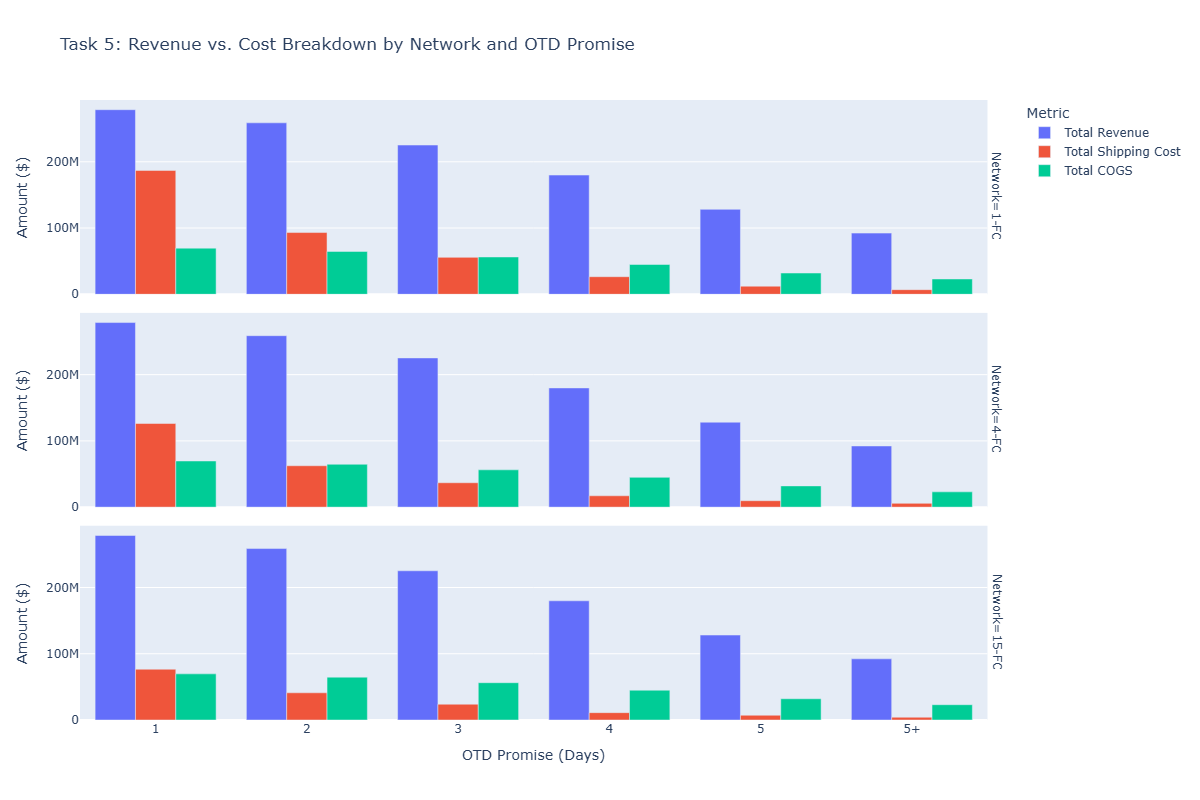
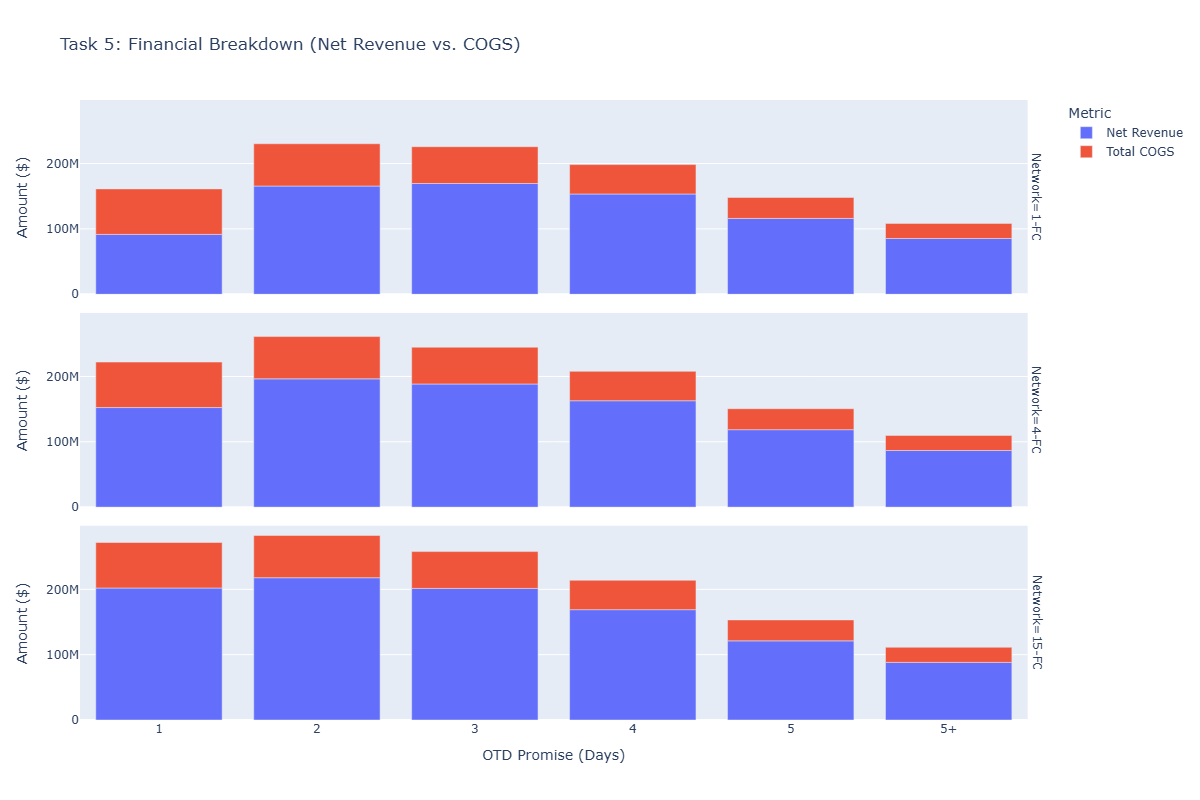
task5 final committing

diff --git a/CW1/src/task5.py b/CW1/src/task5.py
@@ -1,11 +1,12 @@
 # ==============================================================================
 # ISYE 6202, Casework 1, Fall 2025
-# Task 5 Solution Script - Final Corrected Version
+# Task 5 Solution Script - Final Definitive Version
 #
 # Description:
-# This script calculates the financial performance for Dobda's three potential
-# fulfillment networks under various Order-to-Delivery (OTD) promise scenarios.
-# It is corrected based on the specific column names in the provided CSV files.
+# This script performs the complete financial analysis for Task 5. It calculates
+# Total Revenue, Total Shipping Cost, Net Revenue, Total COGS, and Gross
+# Operating Profit for three network scenarios across all OTD promises,
+# and generates all required outputs.
 # ==============================================================================
 
 # --- 1. SETUP AND CONFIGURATION ---
@@ -16,13 +17,10 @@ import plotly.express as px
 from pathlib import Path
 
 # --- Configuration ---
-# Set up the absolute directories for inputs and outputs.
 BASE_DIR = Path(r"D:\Adarsh GATech Files\6335 Benoit SC1\CW1\ISyE6202_CW1\CW1")
 DATA_DIR = BASE_DIR / "data"
 TASK3_OUTPUT_DIR = BASE_DIR / "output" / "task3"
 OUTPUT_DIR = BASE_DIR / "output" / "task5"
-
-# Create the output directory if it doesn't already exist.
 OUTPUT_DIR.mkdir(parents=True, exist_ok=True)
 
 # --- Financial Constants from the Casework ---
@@ -34,11 +32,6 @@ def load_data():
     Loads all necessary input CSV files and corrects the market_type data.
     """
     print("Loading input data...")
-    
-    # Define directories
-    TASK3_OUTPUT_DIR = BASE_DIR / "output" / "task3"
-    
-    # Define paths to all the input files
     paths = {
         "seasonalities": DATA_DIR / "demand_seasonalities.csv",
         "zip3_pmf": DATA_DIR / "zip3_pmf.csv",
@@ -47,8 +40,6 @@ def load_data():
         "assign_4fc": TASK3_OUTPUT_DIR / "assignment_4FC.csv",
         "assign_15fc": TASK3_OUTPUT_DIR / "assignment_15FC.csv",
     }
-    
-    # Load files into a dictionary of pandas DataFrames
     data = {}
     for name, path in paths.items():
         try:
@@ -57,27 +48,17 @@ def load_data():
             print(f"--- ERROR: Input file not found at {path} ---")
             exit()
             
-    # --- DATA CORRECTION STEP (CRITICAL FIX) ---
-    # 1. Prepare the CORRECT market type data from 'zip3_market.csv'.
     correct_markets = data['zip3_market']
     correct_markets.columns = [c.strip().lower() for c in correct_markets.columns]
-    
-    # Use the correct standardized column name ('market') and then rename it.
     correct_markets['zip3'] = correct_markets['zip3'].astype(str).str.zfill(3)
     correct_markets['market'] = correct_markets['market'].str.title()
     correct_markets.rename(columns={'market': 'market_type'}, inplace=True)
     
-    # 2. Correct the assignment files.
     for key in ["assign_1fc", "assign_4fc", "assign_15fc"]:
-        # --- FIX ADDED HERE: Ensure 'zip3' is a string before merging ---
         data[key]['zip3'] = data[key]['zip3'].astype(str).str.zfill(3)
-
-        # Drop the incorrect 'market_type' column if it exists.
         if 'market_type' in data[key].columns:
             data[key] = data[key].drop(columns=['market_type'])
-        # Merge with the correct market data to add the proper 'market_type' column.
         data[key] = pd.merge(data[key], correct_markets[['zip3', 'market_type']], on='zip3', how='left')
-
     print("Data loaded and corrected successfully.")
     return data
 
@@ -86,91 +67,63 @@ def prepare_demand_data(df_seasonalities, df_zip3_pmf):
     Calculates the master demand DataFrame (demand per ZIP, per day).
     """
     print("Preparing daily demand data by ZIP code...")
-
-    # Parameters from the casework
-    total_units_overall = 2_000_000
-    overall_market_grow = 0.075
-    current_market_share = 0.036
-    median_market_share_grow_yearly = 0.20
-    N_DAYS = 364
-
-    # Calculate total expected Dobda units for the year
-    total_dobda_units_yearly = (total_units_overall * (1 + overall_market_grow)) * \
-                               (current_market_share * (1 + median_market_share_grow_yearly))
-
-    # Standardize seasonality column names and data
+    total_units_overall = 2_000_000; overall_market_grow = 0.075; current_market_share = 0.036; median_market_share_grow_yearly = 0.20; N_DAYS = 364
+    total_dobda_units_yearly = (total_units_overall * (1 + overall_market_grow)) * (current_market_share * (1 + median_market_share_grow_yearly))
     df_seasonalities.columns = [c.strip().lower().replace(' ', '_') for c in df_seasonalities.columns]
-    df_season_week = df_seasonalities[["week_of_year", "proportion"]].copy()
-    df_day_week = df_seasonalities[["day_of_week", "proportion.1"]].iloc[:7].copy()
+    df_season_week = df_seasonalities[["week_of_year", "proportion"]].copy(); df_day_week = df_seasonalities[["day_of_week", "proportion.1"]].iloc[:7].copy()
     df_season_week.loc[:, 'proportion'] = df_season_week['proportion'].str.replace('%', '').astype(float) / 100
     df_day_week.loc[:, 'proportion.1'] = df_day_week['proportion.1'].str.replace('%', '').astype(float) / 100
-
-    # Create a daily calendar and apply seasonal factors
     dates = pd.to_datetime(pd.to_timedelta(np.arange(N_DAYS), unit='D') + pd.Timestamp('2026-01-01'))
-    df_calendar = pd.DataFrame({'date': dates})
-    df_calendar['week_of_year'] = df_calendar['date'].dt.isocalendar().week
-    df_calendar['day_of_week'] = df_calendar['date'].dt.isocalendar().day
-    df_calendar = pd.merge(df_calendar, df_season_week, on='week_of_year', how='left')
-    df_calendar = pd.merge(df_calendar, df_day_week.rename(columns={'proportion.1': 'day_proportion'}), on='day_of_week', how='left')
-    df_calendar['pmf_daily'] = (df_calendar['proportion'] * df_calendar['day_proportion']).fillna(0)
-    df_calendar['pmf_daily'] /= df_calendar['pmf_daily'].sum()
+    df_calendar = pd.DataFrame({'date': dates}); df_calendar['week_of_year'] = df_calendar['date'].dt.isocalendar().week; df_calendar['day_of_week'] = df_calendar['date'].dt.isocalendar().day
+    df_calendar = pd.merge(df_calendar, df_season_week, on='week_of_year', how='left'); df_calendar = pd.merge(df_calendar, df_day_week.rename(columns={'proportion.1': 'day_proportion'}), on='day_of_week', how='left')
+    df_calendar['pmf_daily'] = (df_calendar['proportion'] * df_calendar['day_proportion']).fillna(0); df_calendar['pmf_daily'] /= df_calendar['pmf_daily'].sum()
     df_calendar['total_us_demand'] = total_dobda_units_yearly * df_calendar['pmf_daily']
-
-    # Prepare geographic demand data
-    df_zip3_pmf.columns = [c.strip().lower() for c in df_zip3_pmf.columns]
-    df_zip3_pmf['zip3'] = df_zip3_pmf['zip3'].astype(str).str.zfill(3)
+    df_zip3_pmf.columns = [c.strip().lower() for c in df_zip3_pmf.columns]; df_zip3_pmf['zip3'] = df_zip3_pmf['zip3'].astype(str).str.zfill(3)
     df_zip3_pmf['pmf'] /= df_zip3_pmf['pmf'].sum()
-
-    # Create the master demand DataFrame
     df_demand = pd.merge(df_calendar[['date', 'total_us_demand']], df_zip3_pmf, how='cross')
     df_demand['demand_units'] = df_demand['total_us_demand'] * df_demand['pmf']
-    
     print("Demand data preparation complete.")
     return df_demand[['date', 'zip3', 'demand_units']]
 
 def calculate_financials_for_scenario(df_demand, df_assignment, network_name, df_conversion, df_shipping):
     """
-    Calculates financials for a given network across all OTD options.
+    Calculates all required financial metrics for a given network across all OTD options.
     """
     print(f"Calculating financials for {network_name} network...")
-    
-    df_assignment['zip3'] = df_assignment['zip3'].astype(str).str.zfill(3)
     df_full = pd.merge(df_demand, df_assignment, on='zip3')
-    
     results = []
     
     for otd in range(1, 7):
         df_scenario = df_full.copy()
         
         # Merge conversion rates and shipping costs
-        df_scenario = pd.merge(df_scenario, df_conversion[df_conversion['otd_promise'] == otd],
-                               left_on='market_type', right_on='Market')
-        df_scenario = pd.merge(df_scenario, df_shipping[df_shipping['otd_promise'] == otd],
-                               on='distance_bucket')
+        df_scenario = pd.merge(df_scenario, df_conversion[df_conversion['otd_promise'] == otd], left_on='market_type', right_on='Market')
+        df_scenario = pd.merge(df_scenario, df_shipping[df_shipping['otd_promise'] == otd], on='distance_bucket')
         
-        # Calculate financial metrics
+        # Calculate all financial metrics as requested in the prompt
         df_scenario['converted_demand'] = df_scenario['demand_units'] * df_scenario['conversion_rate']
         df_scenario['total_revenue'] = df_scenario['converted_demand'] * PRICE_PER_UNIT
         df_scenario['total_shipping_cost'] = df_scenario['converted_demand'] * df_scenario['shipping_cost_per_unit']
+        df_scenario['net_revenue'] = df_scenario['total_revenue'] - df_scenario['total_shipping_cost']
         df_scenario['total_cogs'] = df_scenario['converted_demand'] * COGS_PER_UNIT
-        df_scenario['gross_operating_profit'] = (df_scenario['total_revenue'] - 
-                                                 df_scenario['total_shipping_cost'] - 
-                                                 df_scenario['total_cogs'])
+        df_scenario['gross_operating_profit'] = df_scenario['net_revenue'] - df_scenario['total_cogs']
         
-        # Aggregate the results for the year
+        # Aggregate the results for the year and store them
         results.append({
             'Network': network_name,
             'OTD Promise (Days)': str(otd) if otd < 6 else '5+',
-            'Gross Operating Profit': df_scenario['gross_operating_profit'].sum(),
             'Total Revenue': df_scenario['total_revenue'].sum(),
-            'Total Shipping Cost': df_scenario['total_shipping_cost'].sum()
+            'Total Shipping Cost': df_scenario['total_shipping_cost'].sum(),
+            'Net Revenue': df_scenario['net_revenue'].sum(),
+            'Total COGS': df_scenario['total_cogs'].sum(),
+            'Gross Operating Profit': df_scenario['gross_operating_profit'].sum()
         })
         
     return pd.DataFrame(results)
 
 def main():
     """
-    Main function to execute the Task 5 analysis.
+    Main function to execute the complete Task 5 analysis.
     """
     data_files = load_data()
     df_demand = prepare_demand_data(data_files["seasonalities"], data_files["zip3_pmf"])
@@ -179,7 +132,6 @@ def main():
     data_conversion = {'Market': ['Primary','Secondary','Tertiary'],1:[1.00,1.00,1.00],2:[0.90,1.00,1.00],3:[0.75,0.95,1.00],4:[0.60,0.75,0.95],5:[0.40,0.60,0.80],'5+':[0.30,0.40,0.60]}
     df_conversion = pd.DataFrame(data_conversion).melt(id_vars='Market', var_name='otd_promise', value_name='conversion_rate')
     df_conversion['otd_promise'] = pd.to_numeric(df_conversion['otd_promise'].replace('5+', 6))
-
     data_shipping = {'distance_bucket':['<50','51-150','151-300','301-600','601-1000','1001-1400','1401-1800','>1800'],1:[607,759,1025,1445,2078,2692,2841,2912],2:[353,441,585,794,924,1427,1795,1854],3:[230,287,392,533,655,895,1202,1330],4:[121,173,238,316,343,491,776,894],5:[139,151,191,242,287,340,362,388],'5+':[103,128,160,198,225,259,276,301]}
     df_shipping = pd.DataFrame(data_shipping).melt(id_vars='distance_bucket', var_name='otd_promise', value_name='shipping_cost_per_unit')
     df_shipping['otd_promise'] = pd.to_numeric(df_shipping['otd_promise'].replace('5+', 6))
@@ -193,11 +145,12 @@ def main():
     all_results = [calculate_financials_for_scenario(df_demand, df, name, df_conversion, df_shipping) for df, name in scenarios]
     final_summary_df = pd.concat(all_results, ignore_index=True)
 
-    print("Analysis complete. Saving outputs...")
+    print("\nAnalysis complete. Saving primary outputs...")
     summary_csv_path = OUTPUT_DIR / "task5_financial_summary.csv"
     final_summary_df.to_csv(summary_csv_path, index=False)
-    print(f"-> Summary table saved to: {summary_csv_path}")
+    print(f"-> Main summary table saved to: {summary_csv_path}")
     
+    # --- Primary Visualization: Gross Operating Profit ---
     fig = px.bar(final_summary_df,
                  x='OTD Promise (Days)', y='Gross Operating Profit', color='Network',
                  barmode='group', title='Task 5: Gross Operating Profit by OTD Promise and Network',
@@ -207,88 +160,53 @@ def main():
     chart_png_path = OUTPUT_DIR / "task5_profit_by_otd_chart.png"
     try:
         fig.write_image(chart_png_path, width=1000, height=550)
-        print(f"-> Bar chart saved to: {chart_png_path}")
+        print(f"-> Main profit chart saved to: {chart_png_path}")
     except Exception:
         print("\n--- Could not save image file. Please install kaleido by running: pip install kaleido ---")
 
-    # --- Additional Visualization 1: Detailed Profit Breakdown ---
-    print("Generating detailed profit breakdown chart...")
+    # --- Additional Visualizations and Outputs ---
+    print("\nGenerating additional outputs...")
 
-    # Calculate Total COGS in our summary table
-    final_summary_df['Total COGS'] = (final_summary_df['Total Revenue'] - 
-                                      final_summary_df['Total Shipping Cost'] - 
-                                      final_summary_df['Gross Operating Profit'])
-
-    # Melt the DataFrame to prepare for a stacked bar chart
+    # Viz 1: Revenue vs. Costs Trade-off (Now including Net Revenue)
+    fig_tradeoff = px.line(
+        final_summary_df, x='OTD Promise (Days)', y=['Total Revenue', 'Total Shipping Cost', 'Net Revenue'],
+        facet_row='Network', title='Task 5: The Trade-Off Between Revenue, Costs, and Net Revenue',
+        labels={'value': 'Amount ($)', 'variable': 'Metric'}, markers=True
+    )
+    tradeoff_chart_path = OUTPUT_DIR / "task5_tradeoff_chart.png"
+    fig_tradeoff.write_image(tradeoff_chart_path, width=1000, height=800)
+    print(f"-> Trade-off chart saved to: {tradeoff_chart_path}")
+    
+    # Viz 2: Detailed Financial Breakdown
     df_melted = final_summary_df.melt(
         id_vars=['Network', 'OTD Promise (Days)'],
-        value_vars=['Total Revenue', 'Total Shipping Cost', 'Total COGS'],
-        var_name='Metric',
-        value_name='Amount'
+        value_vars=['Net Revenue', 'Total COGS'],
+        var_name='Metric', value_name='Amount'
     )
-
-    # Create the chart
     fig_breakdown = px.bar(
-        df_melted,
-        x='OTD Promise (Days)',
-        y='Amount',
-        color='Metric',
-        facet_row='Network', # Creates separate charts for 1-FC, 4-FC, 15-FC
-        barmode='group',
-        title='Task 5: Revenue vs. Cost Breakdown by Network and OTD Promise',
-        labels={'Amount': 'Amount ($)', 'OTD Promise (Days)': 'OTD Promise (Days)'},
-        category_orders={"OTD Promise (Days)": ["1", "2", "3", "4", "5", "5+"]}
+        df_melted, x='OTD Promise (Days)', y='Amount', color='Metric',
+        facet_row='Network', title='Task 5: Financial Breakdown (Net Revenue vs. COGS)',
+        labels={'Amount': 'Amount ($)'}, category_orders={"OTD Promise (Days)": ["1", "2", "3", "4", "5", "5+"]}
     )
-
-    # Save the plot
     breakdown_chart_path = OUTPUT_DIR / "task5_profit_breakdown_chart.png"
-    try:
-        fig_breakdown.write_image(breakdown_chart_path, width=1200, height=800)
-        print(f"-> Breakdown chart saved to: {breakdown_chart_path}")
-    except Exception as e:
-        print(f"--- Could not save breakdown chart. Error: {e} ---")
+    fig_breakdown.write_image(breakdown_chart_path, width=1200, height=800)
+    print(f"-> Financial breakdown chart saved to: {breakdown_chart_path}")
 
-    # --- Additional Visualization 2: Revenue vs. Shipping Cost Trade-off ---
-    print("Generating revenue vs. cost trade-off chart...")
-
-    fig_tradeoff = px.line(
-        final_summary_df,
-        x='OTD Promise (Days)',
-        y=['Total Revenue', 'Total Shipping Cost'],
-        facet_row='Network', # Creates separate charts for each network
-        title='Task 5: The Trade-Off Between Revenue and Shipping Cost',
-        labels={'value': 'Amount ($)', 'variable': 'Metric'},
-        markers=True # Adds dots to each data point
-    )
-
-    # Save the plot
-    tradeoff_chart_path = OUTPUT_DIR / "task5_tradeoff_chart.png"
-    try:
-        fig_tradeoff.write_image(tradeoff_chart_path, width=1000, height=800)
-        print(f"-> Trade-off chart saved to: {tradeoff_chart_path}")
-    except Exception as e:
-        print(f"--- Could not save trade-off chart. Error: {e} ---")
-    
-    # --- Additional CSV Output: Profit by Market Type ---
-    print("Generating detailed profit breakdown by market type...")
-
-    # This code is an adaptation of the Task 6 logic to get the detailed breakdown
-    df_expanded = pd.merge(df_demand, data_files["assign_4fc"], on='zip3') # Using 4-FC as an example
+    # Additional CSV: Profit by Market Type for the 4-FC Network
+    print("Generating detailed profit breakdown by market type (for 4-FC network)...")
+    df_expanded = pd.merge(df_demand, data_files["assign_4fc"], on='zip3')
     df_expanded = pd.merge(df_expanded, df_conversion, left_on='market_type', right_on='Market')
     df_expanded = pd.merge(df_expanded, df_shipping, on=['distance_bucket', 'otd_promise'])
     df_expanded['gross_operating_profit'] = ((df_expanded['demand_units'] * df_expanded['conversion_rate']) * PRICE_PER_UNIT) - \
                                             ((df_expanded['demand_units'] * df_expanded['conversion_rate']) * df_expanded['shipping_cost_per_unit']) - \
                                             ((df_expanded['demand_units'] * df_expanded['conversion_rate']) * COGS_PER_UNIT)
-
-    # Group by market type and otd promise to find the profit for each choice
     market_profit_by_otd = df_expanded.groupby(['market_type', 'otd_promise'])['gross_operating_profit'].sum().reset_index()
     market_profit_by_otd['OTD Promise (Days)'] = market_profit_by_otd['otd_promise'].apply(lambda x: str(x) if x < 6 else '5+')
-
-    # Save the detailed breakdown to a new CSV file
     market_breakdown_csv_path = OUTPUT_DIR / "task5_profit_by_market_type_(4-FC).csv"
     market_profit_by_otd[['market_type', 'OTD Promise (Days)', 'gross_operating_profit']].to_csv(market_breakdown_csv_path, index=False)
     print(f"-> Profit breakdown by market type saved to: {market_breakdown_csv_path}")
 
-print("\nScript finished successfully! 🎉")
+    print("\nScript finished successfully! 🎉")
+
 if __name__ == "__main__":
     main()
